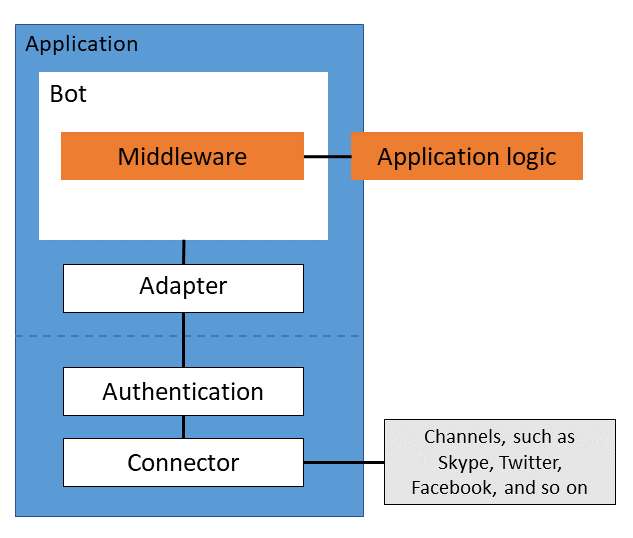
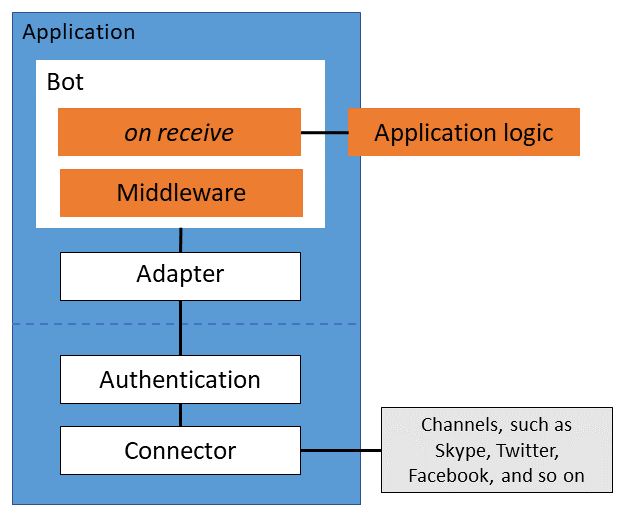
Jf v4 writing (#463)
* working copy

* work in process

* interim

* interim

* interim

* interim

* interim

* interim

* Rough draft complete.

* tweaks to rough draft

* updates

* Delete concept-conversations.md

* add monikers

* update username

* Update TOC.yml

* Update TOC.yml

* Update TOC.yml

* Update TOC.yml

* Update TOC.yml

* Rough draft, ready for review.

* update TOC

* interim

* update toc

* Update rough draft

Changed region(s): [[0.0, 0.0, 0.9439, 0.9865], [0.609, 0.7707, 1.0, 0.9557]]

diff --git a/articles/v4sdk/bot-builder-pipelines.md b/articles/v4sdk/bot-builder-pipelines.md
@@ -1,0 +1,78 @@
+---
+title: Middleware and pipelines within the Bot Builder SDK | Microsoft Docs
+description: Describes the middleware and pipelines a bot uses to process activities within the Bot Builder SDK.
+author: jonathanfingold
+ms.author: jonathanfingold
+manager: kamrani
+ms.topic: article
+ms.prod: bot-framework
+ms.date: 02/16/2018
+monikerRange: 'azure-bot-service-4.0'
+
+---
+
+# Middleware and pipelines
+
+An incoming request from the user is converted to an activity that the bot can process.
+In response, your bot can send activities back to the user.
+The bot uses _middleware_ and _pipelines_ to divide its processing logic into a sequence of smaller tasks.
+
+![NOTE] The bot processes incoming activities independently of each other.
+
+## Middleware
+
+Use middleware to add reusable components to your bot in a modular way.
+Middleware is added to the pipelines via the bot's _use_ method.
+The order in which each pipeline calls the middleware is the order in which you added the middleware to the bot.
+
+A pipeline calls a middleware object only if the middleware implements the appropriate interface or method to participate on the pipeline, as follows.
+
+| Pipeline | C# interface | Node.js method |
+|:---|:---|:---|
+| Context created | `IContextCreated` | `contextCreated()` |
+| Receive activity | `IReceiveActivity` | `receiveActivity()` |
+| Send activity | `ISendActivity` | `postActivity()` |
+
+See the language-specific reference documentation for more detailed information about each method and interface.
+
+## Middleware sequencing
+
+On each pipeline, each middleware object has the first-and-last chance to act with respect to the middleware objects that follow it in the pipeline.
+When the bot calls a middleware object, the parameters are a context object and an _next_ delegate.
+(The next delegate is implemented as an asynchronous method in .NET and as a promise in Node.js.)
+When you call the next delegate from your middleware, the bot to calls the next middleware on the current pipeline.
+Once the subsequent middleware processing is complete, control returns to the middleware object that called the next delegate.
+
+Your middleware can _short circuit_ the pipeline by not calling the next delegate.
+In this case, the bot calls none of the following middleware on the pipeline for the current activity.
+
+## Pipelines
+
+When the bot receives a user request, it creates a context object, which  represents the request activity and the conversation state, and then runs the middleware pipelines in the following sequence.
+
+1. Context created – adds information to the context object.
+1. Receive activity – preprocesses the request.
+1. Send activity – persists information from the context object and sends out any response activities.
+
+If you added an _on receive_ callback to the bot, the bot runs the callback after the receive activity pipeline completes and before the send activity pipeline starts.
+
+![NOTE] If there are responses generated, the bot sends them to the adapter as the last step on the send activity pipeline.
+
+## Proactive messages
+
+To trigger your bot _proactively_, in response to application-internal logic, use the bot's _create context_ method, which takes an existing context object and a _proactive callback_ method.
+The bot creates a new context object and then runs the middleware pipelines in the following sequence. 
+
+1. Context created
+1. Send activity
+
+The bot runs the proactive callback after the context created pipeline completes and before the send activity pipeline starts.
+
+## See also
+
+- Activities
+- Bot architecture
+- Bots and adapters
+- Context
+- Proactive messages
+- State
